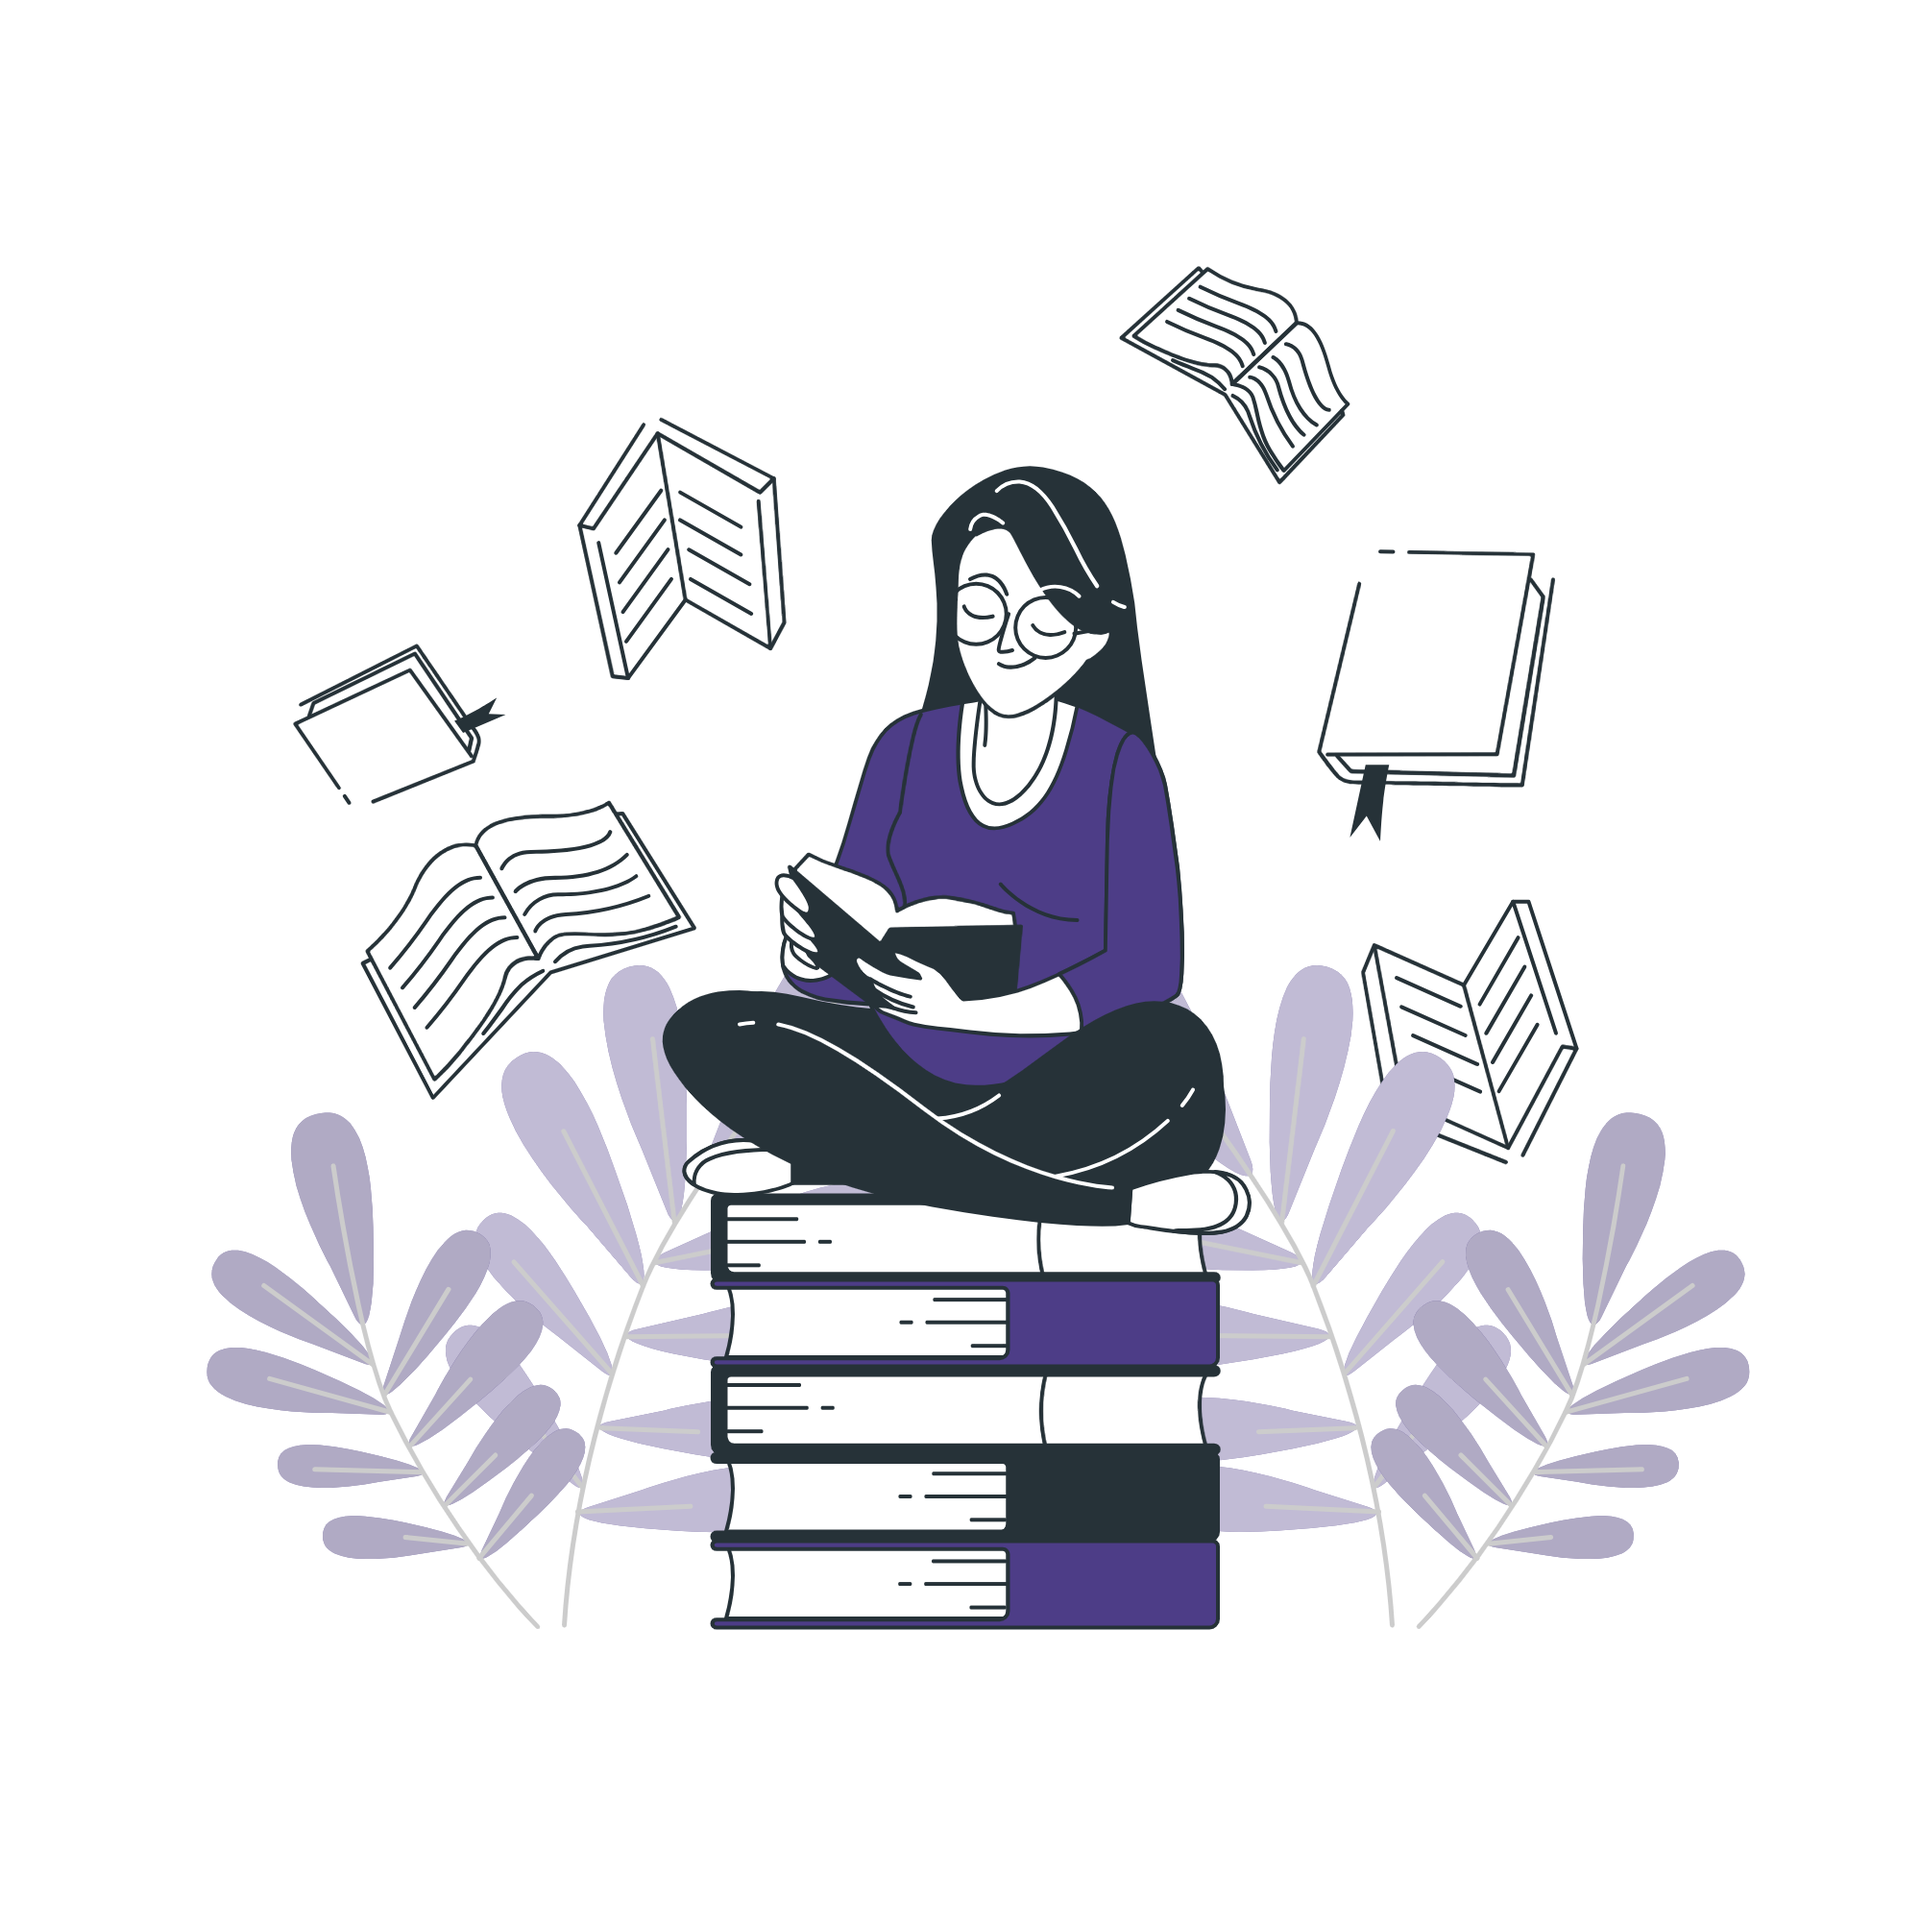
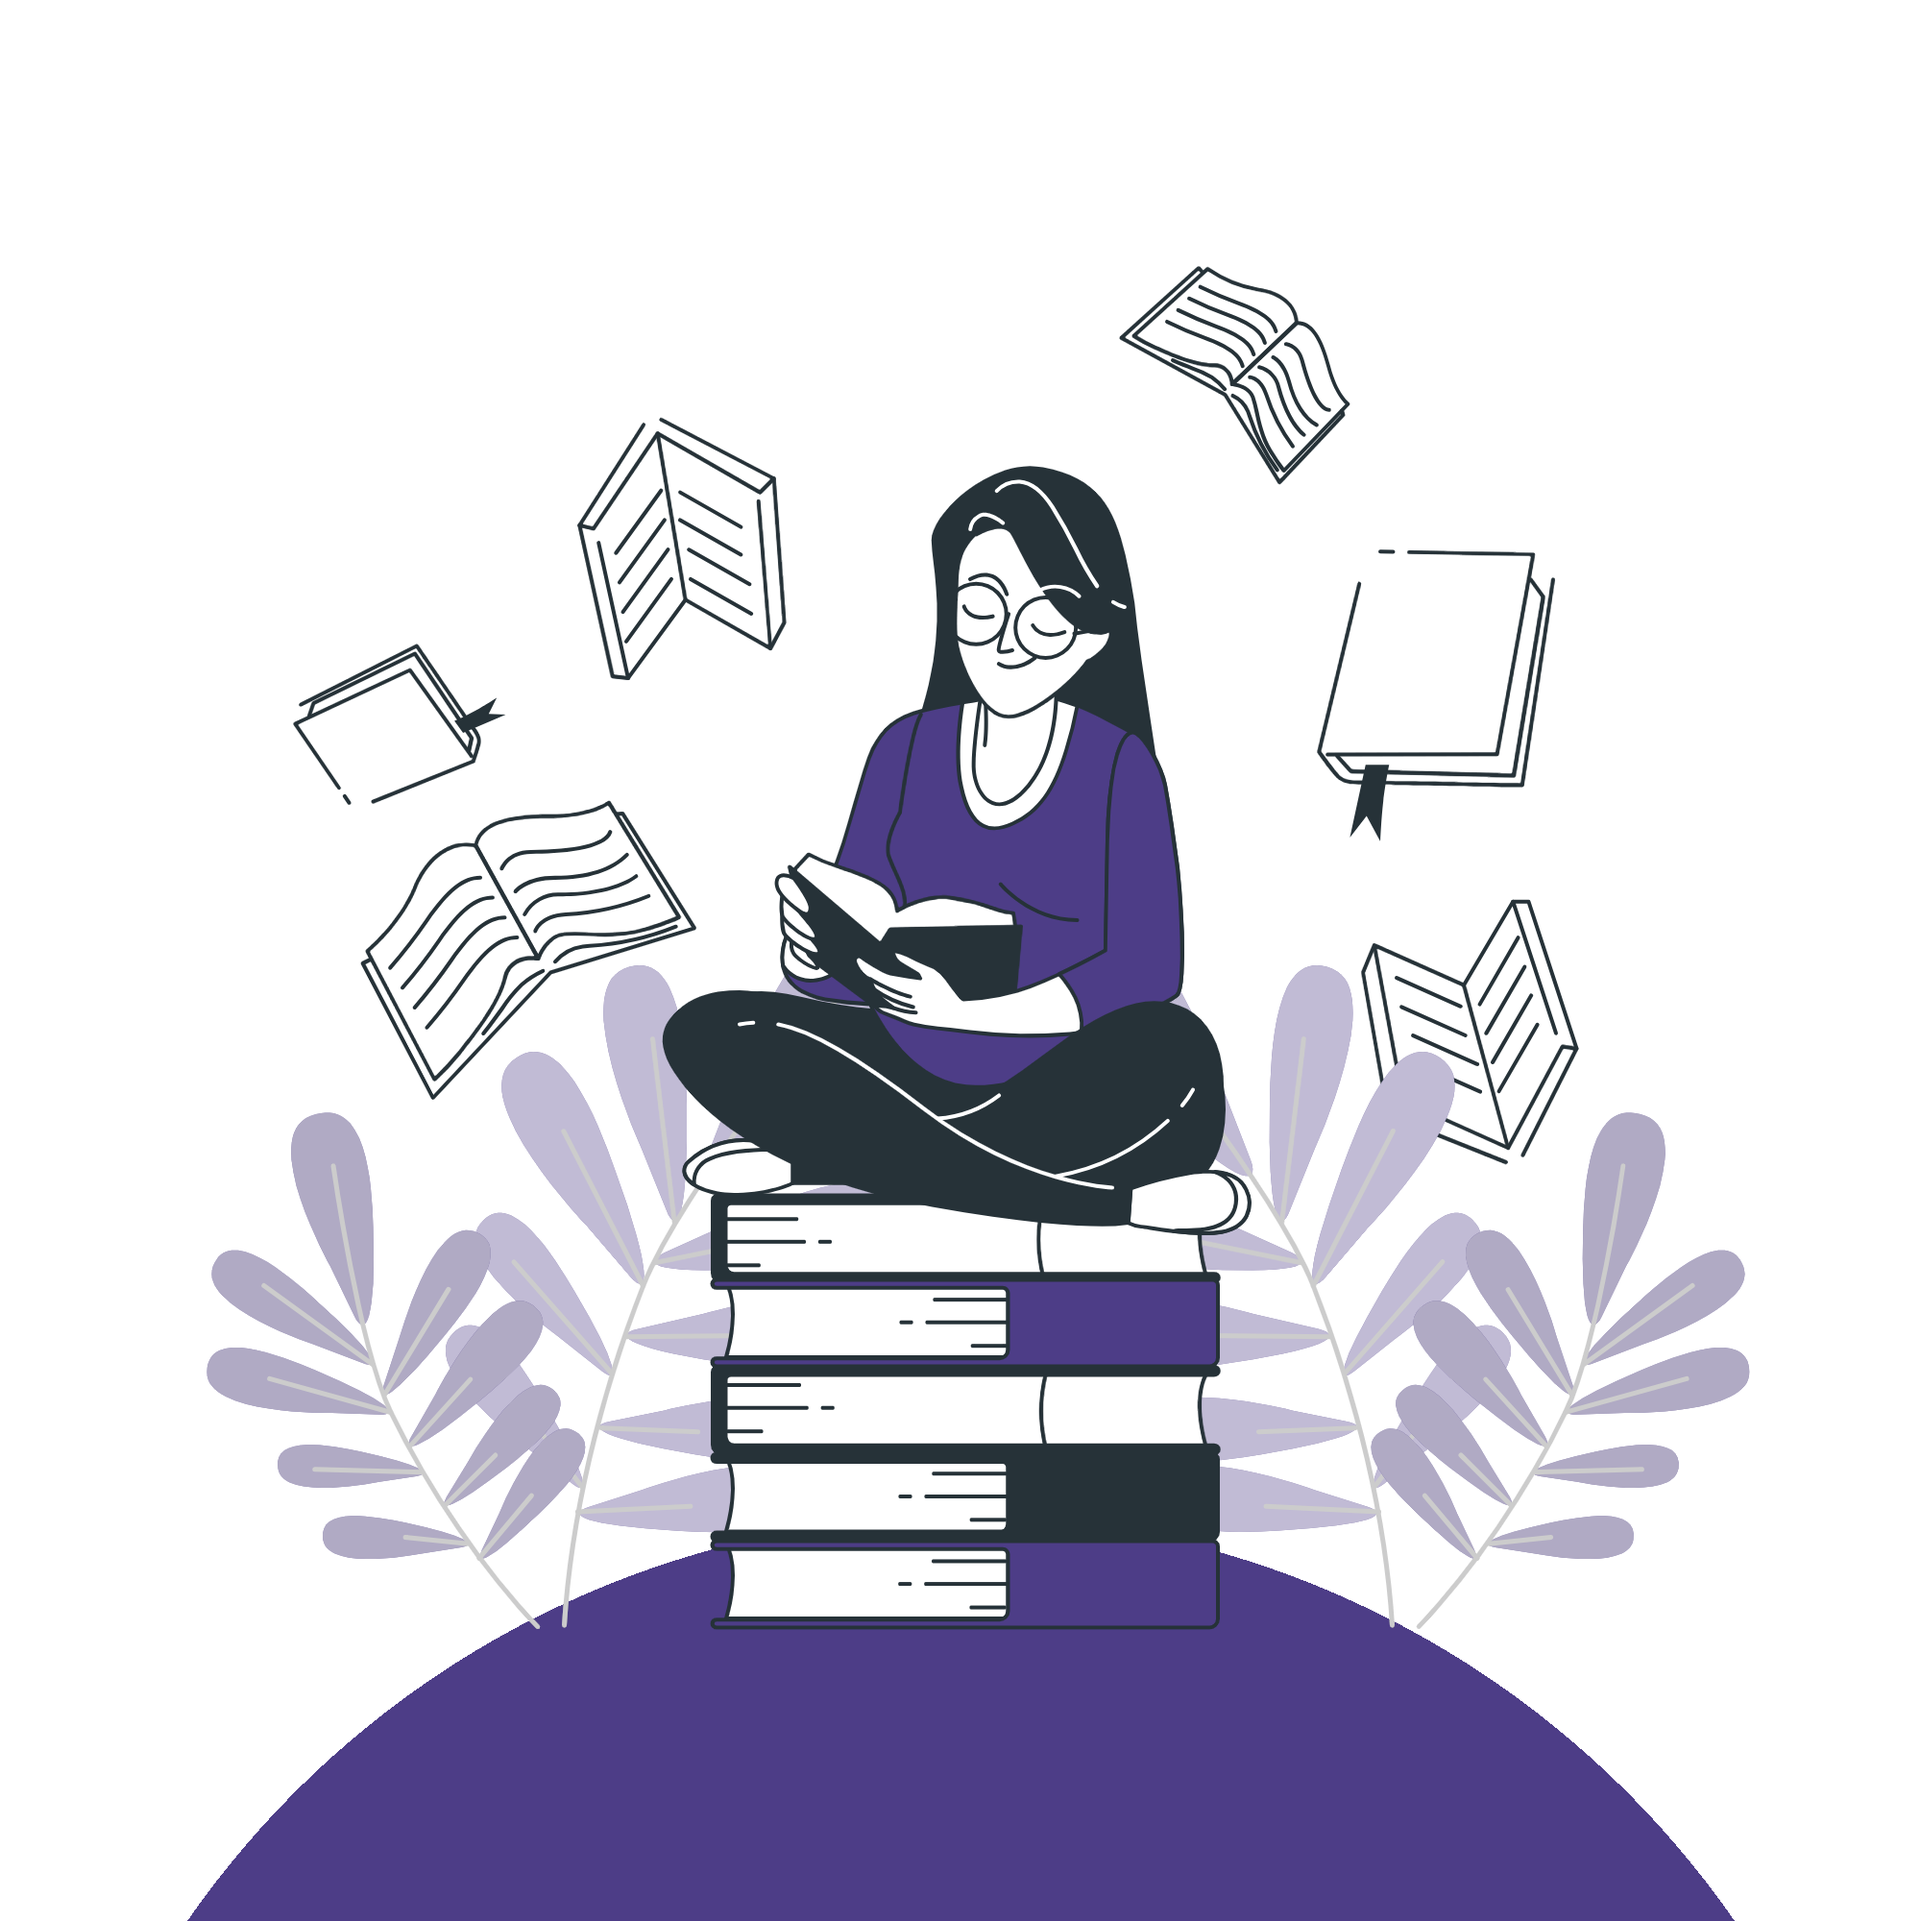
base home html and css done

Changed region(s): [[0.093, 0.806, 0.899, 1.0]]

diff --git a/personal-projects/todo-app/style/home.css b/personal-projects/todo-app/style/home.css
@@ -1,4 +1,6 @@
 .hero-section{
+    position: relative;
+
     display: flex;
     flex-wrap: wrap;
     flex-direction: row;
@@ -8,6 +10,7 @@
     width: 100%;
     height: 100%;
     padding: 15px 30px;
+    overflow: hidden;
 }
 
 .hero-section__classy-logo{
@@ -32,25 +35,98 @@
 
 .hero-section__hero-picture{
     position: absolute;
-    transform: translate(-50%, -50%);
-    top: 50%;
-    left: 50%;
+    transform: translateX(50%);
+    bottom: 0px;
+    right: 50%;
 
     width: 100%;
     max-width: 550px;
 }
-.hero-section__hero-picture-bg{
-    position: absolute;
-    transform: translate(-50%, -50%);
-    left: 50%;
-    bottom: 10px;
-
-    width: 800px;
-    height: 800px;
-    border-radius: 100%;
-    background-color: #4D3D87;
+.hero-section h1,
+.hero-section p{
+    max-width: 320px;
+}
+.hero-section h1{
+    color: black;
+    font-size: 2.2em;
+}
+.hero-section h1 > span{
+    color: #4D3D87;
+}
+.hero-section p{
+    text-align: justify;
+}
+.hero-section__headline,
+.hero-section__subheadline{
+    margin-bottom: 20px;
 }
 
-.hero-section h1{
-    font-size: 3em;
+.hero-section__cabutton{
+    display: flex;
+    align-items: center;
+    justify-content: center;
+    
+    width: 50%;
+    padding: 5px 0;
+    border-radius: 10px;
+    background-color: #4D3D87;
+
+    color: white;
+    font-size: 1.5em;
+    font-weight: 600;
+    text-decoration: none;
+}
+
+
+@media screen and (max-width: 1169px) {
+    .hero-section{
+        padding: 75px 30px;
+
+        display: block;
+    }
+
+    .hero-section > aside{
+        width: calc(100% - 500px);
+        min-width: 260px;
+    }
+
+    .hero-section__title{
+        text-align: center;
+        margin-bottom: 40px;
+    }
+    
+    .hero-section__cabutton{
+        width: 100%;
+        padding: 10px 0;
+        margin: 0 auto;
+    }
+    .hero-section h1,
+    .hero-section p{
+        width: 100%;
+        max-width: none;
+    }
+
+    .hero-section__hero-picture{
+        right: 0px;
+        max-width: 515px;
+        transform: translateX(0);
+    }
+}
+
+@media screen and (max-width: 819px) {
+    .hero-section{
+        overflow: visible;
+    }
+    .hero-section > aside{
+        margin: auto;
+    }
+    .hero-section__hero-picture{
+        position: initial;
+        display: block;
+        margin: auto;
+        
+        width: 100%;
+        max-width: 560px;
+        inset: 0;
+    }
 }

diff --git a/personal-projects/todo-app/home.html b/personal-projects/todo-app/home.html
@@ -10,20 +10,21 @@
 <body>
     <main class="hero-section">
         <h1 class="hero-section__title">
-            Welcome to <br> ClassY.
+            Welcome to <br> <span>ClassY</span>.
         </h1>
         <aside>
             <h1 class="hero-section__headline">
-                Be organized.<br>
-                Be Productive.
+                Be <span>organized.</span><br>
+                Be <span>Productive.</span>
             </h1>
             <p class="hero-section__subheadline">
                 Whether you are a teacher or a student, ClassY will help you with your productivity and organization.
             </p>
-            <a href="#" class="head-section__cabutton">Let's go!</a>
+            <a href="#" class="hero-section__cabutton">Let's go!</a>
         </aside>
-        <picture class="hero-section__hero-picture-bg"></picture>
+
         <img src="media/landing-picture.png" class="hero-section__hero-picture">
+
         <img src="media/classy-logo.png" class="hero-section__classy-logo">
         <ion-icon name="menu-sharp" class="hero-section__sidebar-button"></ion-icon>
     </main>
